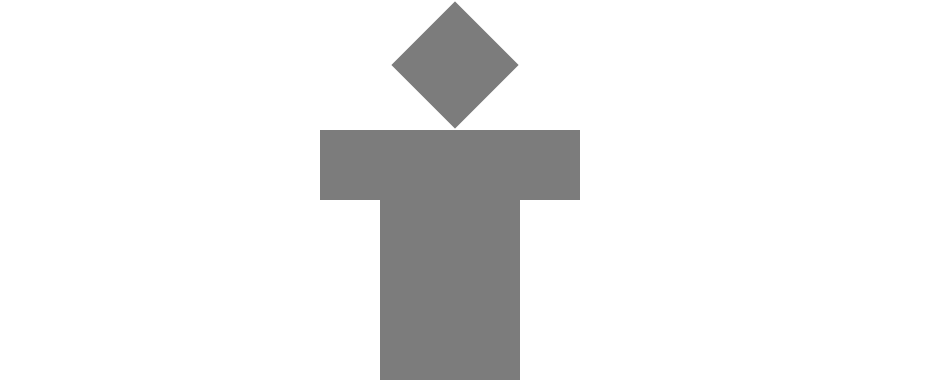
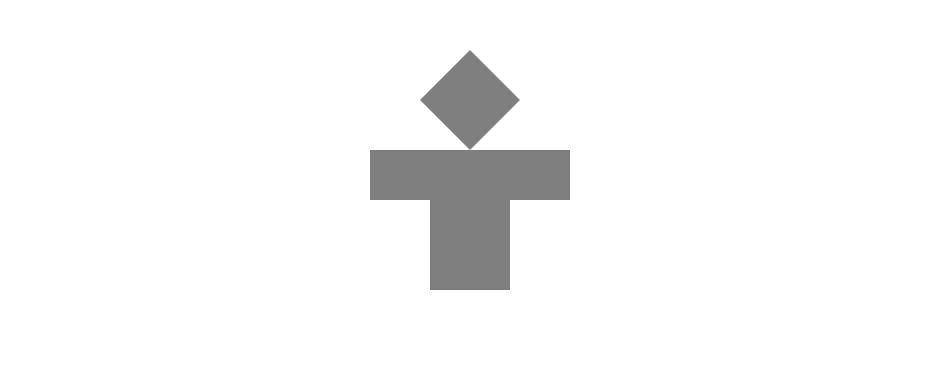
some style changes, new images for first level and data

Changed region(s): [[0.343, 0.0, 0.6237, 1.0]]

diff --git a/data/resources.js b/data/resources.js
@@ -10,8 +10,8 @@ module.exports.global = [
 	question: 'Choose one of the ethics you just read about and explain why it is important to you. Your answer will be public, and afterwards, you\'ll get to see what others have said.',
 	questionType: 'public',
 	shape: {
-		path: 'm0,0l-171,0l0,159.5c0,0 101.5,0.5 102,0.5c0.5,0 0,-110.501007 0,-111c0,-0.498993 68,0.5 68,0c0,-0.5 1,-49 1,-49z',
-		fill: 'rgb(124,202,176)'
+		path: 'm0,0l0,70l80,0l0,-70l-80,0z',
+		fill: 'rgb(11,75,140)'
 	},
 	playerAnswers: []
 },
@@ -61,8 +61,8 @@ module.exports.global = [
 	question: 'Based on what you\'ve seen, set one goal and one objective for yourself. Your answer will be public, and afterwards, you\'ll get to see what others have said.',
 	questionType: 'public',
 	shape: {
-		path: 'm0,0l0,-49l68.25,0l0,49.5l-68.25,-0.5z',
-		fill: 'rgb(44,52,91)'
+		path: 'm0,0l-50,50l50,50l0,-100z',
+		fill: 'rgb(90, 226, 226)'
 	},
 	playerAnswers: []
 },
@@ -110,8 +110,8 @@ module.exports.global = [
 	question: 'Which of these students resonated most with you? Why? Your answer will be public, and afterwards, you\'ll get to see what others have said.',
 	questionType: 'public',
 	shape: {
-		path: 'm0,0l81,50l-64,37l-61,-29l44,-58z',
-		fill: 'rgb(250,0,0)'
+		path: 'm0,0l-100,0l0,50l60,0l0,20l80,0l0,-20l60,0l0,-50l-100,0z',
+		fill: 'rgb(229,299,45)'
 	},
 	playerAnswers: []
 },
@@ -194,8 +194,8 @@ module.exports.global = [
 	questionType: 'keyword',
 	keywords: ['gender', 'race', 'culture', 'nationality', 'socioeconomic class', 'religion', 'sexual orientation', 'age group', 'wellness', 'body', 'educated', 'rich', 'poor', 'middle-class', 'white', 'black', 'hispanic', 'latino', 'latina', 'african-american', 'asian', 'chinese', 'japanese', 'korean', 'indian', 'male', 'female', 'man', 'woman', 'guy', 'straight', 'gay', 'heterosexual', 'homosexual', 'christian', 'jewish', 'muslim', 'atheist', 'agnostic', 'religious', 'american', 'low', 'high', 'mid', 'fat', 'thin', 'tall', 'short', 'young', 'college'],
 	shape: {
-		path: 'm0,0l81,50l-64,37l-61,-29l44,-58z',
-		fill: 'rgb(250,0,0)'
+		path: 'm0,0l0,100l50,-50l-50,-50z',
+		fill: 'rgb(255,120,86)'
 	},
 	playerAnswers: []
 },

diff --git a/data/gnome.js b/data/gnome.js
@@ -54,21 +54,21 @@ module.exports.global = {
 	},
 	tangram: [{
 		answer: [{
-			id: 6265,
-			x: 380,
-			y: 210
-		}, {
-			id: 4284,
-			x: 500,
-			y: 70
-		}, {
-			id: 4693,
-			x: 500,
-			y: 70
-		}, {
 			id: 2569,
-			x: 620,
-			y: 160
+			x: 430,
+			y: 200
+		}, {
+			id: 6265,
+			x: 470,
+			y: 50
+		}, {
+			id: 2176,
+			x: 470,
+			y: 150
+		}, {
+			id: 8986,
+			x: 470,
+			y: 50
 		}]
 	}, {
 		answer: [{
